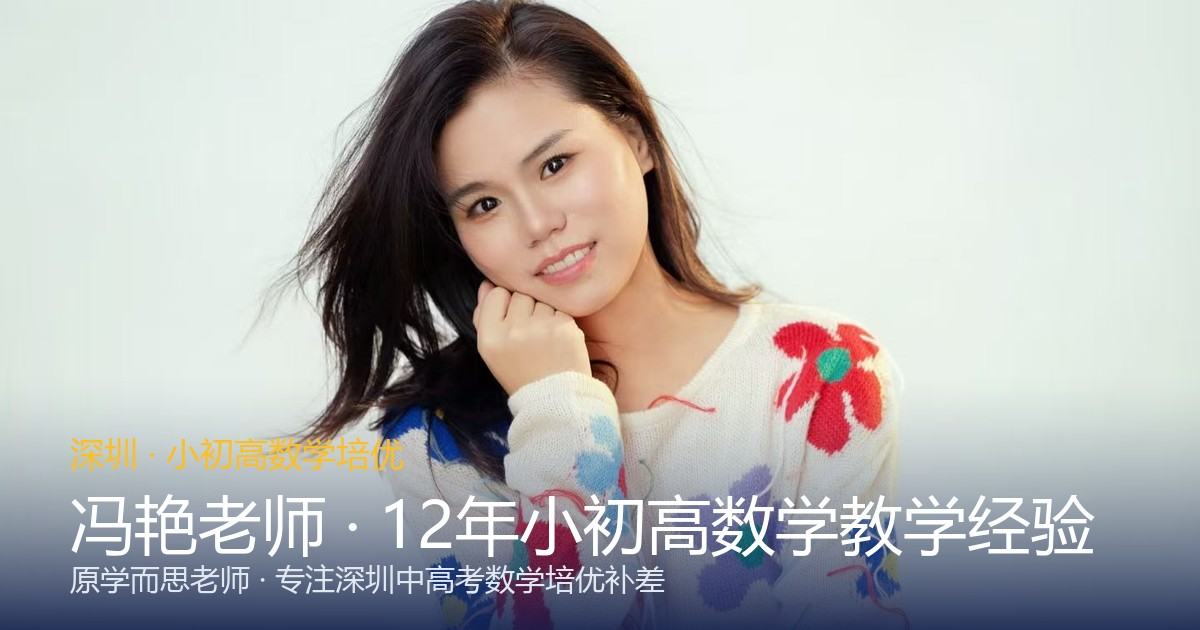
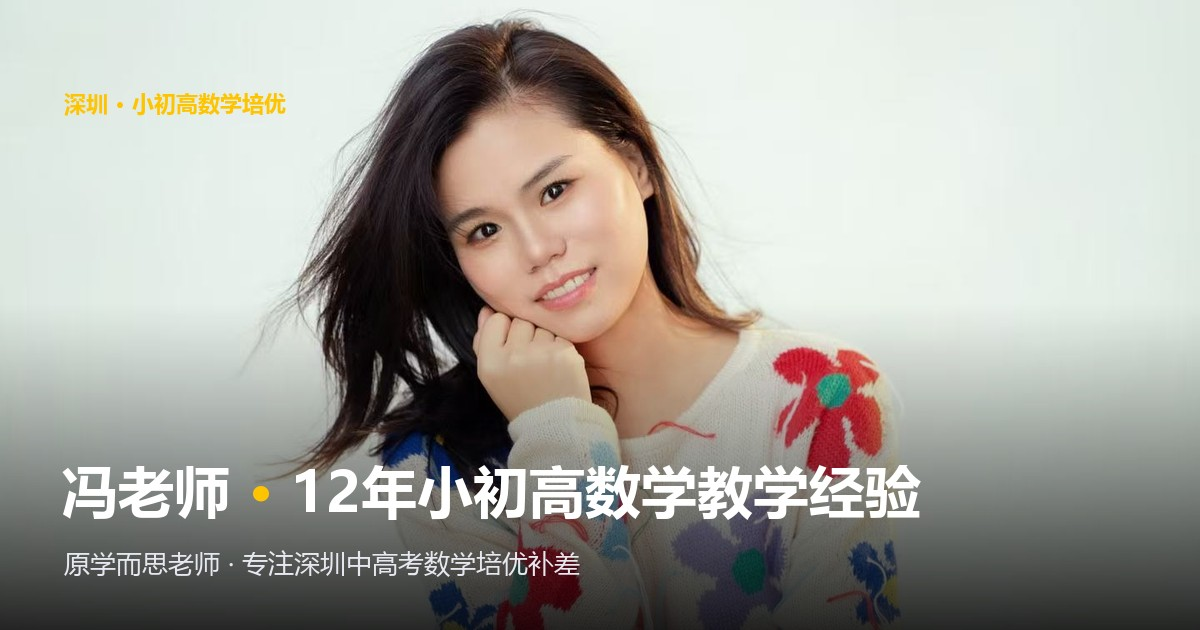
deploy: fengyan-edu-v2 副本全量站点

diff --git a/index.html b/index.html
@@ -3,23 +3,23 @@
 <head>
   <meta charset="UTF-8" />
   <meta name="viewport" content="width=device-width, initial-scale=1.0" />
-  <title>冯艳老师 · 小初高数学培优</title>
-  <meta name="description" content="冯艳老师（原学而思数学老师），多年小初高数学教学经验，专注深圳中高考数学培优补差。" />
+  <title>冯老师 · 小初高数学培优</title>
+  <meta name="description" content="冯老师（原学而思数学老师），多年小初高数学教学经验，专注深圳中高考数学培优补差。" />
   <link rel="canonical" href="https://fengyan-edu.github.io/fengyan-edu-v2/" />
   <meta name="theme-color" content="#1e3a8a" />
-  <meta name="format-detection" content="telephone=yes" />
+  <meta name="format-detection" content="telephone=no" />
 
-  <meta property="og:title" content="冯艳老师 · 深圳小初高数学培优" />
+  <meta property="og:title" content="冯老师 · 深圳小初高数学培优" />
   <meta property="og:description" content="原学而思数学老师，多年小初高数学教学经验，专注深圳中高考数学培优补差。" />
   <meta property="og:image" content="https://fengyan-edu.github.io/fengyan-edu-v2/assets/og-cover.jpg" />
   <meta property="og:image:width" content="1200" />
   <meta property="og:image:height" content="630" />
   <meta property="og:url" content="https://fengyan-edu.github.io/fengyan-edu-v2/" />
-  <meta property="og:site_name" content="冯艳老师 · 小初高数学培优" />
+  <meta property="og:site_name" content="冯老师 · 小初高数学培优" />
   <meta property="og:type" content="website" />
   <meta property="og:locale" content="zh_CN" />
   <meta name="twitter:card" content="summary_large_image" />
-  <meta name="twitter:title" content="冯艳老师 · 深圳小初高数学培优" />
+  <meta name="twitter:title" content="冯老师 · 深圳小初高数学培优" />
   <meta name="twitter:description" content="原学而思数学老师，多年小初高数学教学经验，专注深圳中高考数学培优补差。" />
   <meta name="twitter:image" content="https://fengyan-edu.github.io/fengyan-edu-v2/assets/og-cover.jpg" />
 
@@ -27,11 +27,9 @@
   {
     "@context": "https://schema.org",
     "@type": "Person",
-    "name": "冯艳老师",
-    "alternateName": "冯艳",
+    "name": "冯老师",
     "jobTitle": "数学教师",
     "description": "原学而思数学老师，多年小初高数学教学经验，专注深圳中高考数学培优补差。",
-    "telephone": "+86-150-1406-4927",
     "address": {
       "@type": "PostalAddress",
       "addressLocality": "深圳",
@@ -2210,7 +2208,7 @@
     <div class="container nav-inner">
       <a href="#" class="logo">
         <div class="logo-icon">冯</div>
-        冯艳老师
+        冯老师
       </a>
       <ul class="nav-links" id="navLinks">
         <li><a href="#about">关于老师</a></li>
@@ -2236,7 +2234,7 @@
           <span class="dot"></span>
           深圳 · 小初高数学培优
         </div>
-        <h1>冯艳 <span>老师</span></h1>
+        <h1>冯<span>老师</span></h1>
         <p class="hero-title-sub">原学而思数学老师 · <span class="auto-year" data-auto-year="career">12</span>年一线教学经验</p>
         <p class="hero-desc">
           专注深圳中高考数学，熟悉本地教材与名校考点。擅长因材施教，
@@ -2258,7 +2256,7 @@
           <picture>
             <source srcset="assets/photo.webp" type="image/webp" />
             <source srcset="assets/photo.jpg" type="image/jpeg" />
-            <img src="assets/photo.jpg" alt="冯艳老师" width="420" height="560" fetchpriority="high" decoding="async" />
+            <img src="assets/photo.jpg" alt="冯老师" width="420" height="560" fetchpriority="high" decoding="async" />
           </picture>
         </div>
         <div class="hero-cards">
@@ -2327,12 +2325,12 @@
             <picture>
               <source srcset="assets/photo.webp" type="image/webp" />
               <source srcset="assets/photo.jpg" type="image/jpeg" />
-              <img src="assets/photo.jpg" alt="冯艳老师" width="220" height="220" loading="lazy" decoding="async" />
+              <img src="assets/photo.jpg" alt="冯老师" width="220" height="220" loading="lazy" decoding="async" />
             </picture>
           </div>
           <div class="poster-title">
             <div class="poster-label">深圳 · 小初高数学培优</div>
-            <h2>冯艳老师</h2>
+            <h2>冯老师</h2>
             <p class="poster-role">原学而思数学老师 · <span class="auto-year" data-auto-year="career">12</span>年一线教学经验</p>
             <div class="poster-tags">
               <span><span class="auto-year" data-auto-year="career">12</span>年小初高数学教学经验</span>
@@ -2837,9 +2835,9 @@
             <picture>
               <source srcset="assets/photo.webp" type="image/webp" />
               <source srcset="assets/photo.jpg" type="image/jpeg" />
-              <img src="assets/photo.jpg" alt="冯艳老师" width="220" height="280" loading="lazy" decoding="async" />
+              <img src="assets/photo.jpg" alt="冯老师" width="220" height="280" loading="lazy" decoding="async" />
             </picture>
-            <h3>冯艳老师</h3>
+            <h3>冯老师</h3>
             <p>深圳小初高数学培训 · 原学而思老师</p>
             <button type="button" class="cta-btn consult-trigger">
               <span>💬</span> 咨询课程
@@ -2853,7 +2851,7 @@
   <!-- Footer -->
   <footer>
     <div class="container">
-      <p>© <span id="footerYear">2026</span> 冯艳老师 · 深圳小初高数学培训</p>
+      <p>© <span id="footerYear">2026</span> 冯老师 · 深圳小初高数学培训</p>
     </div>
   </footer>
 
